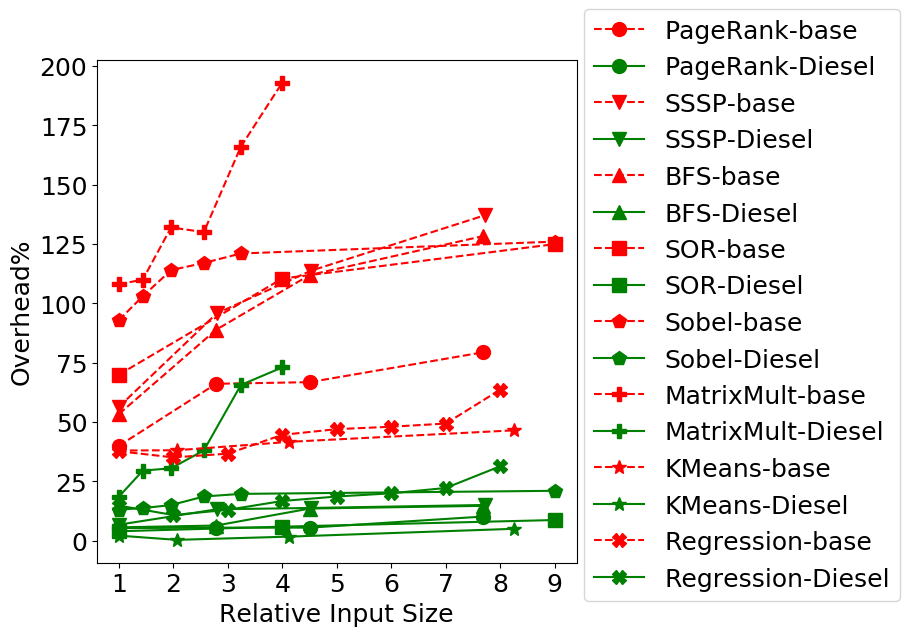
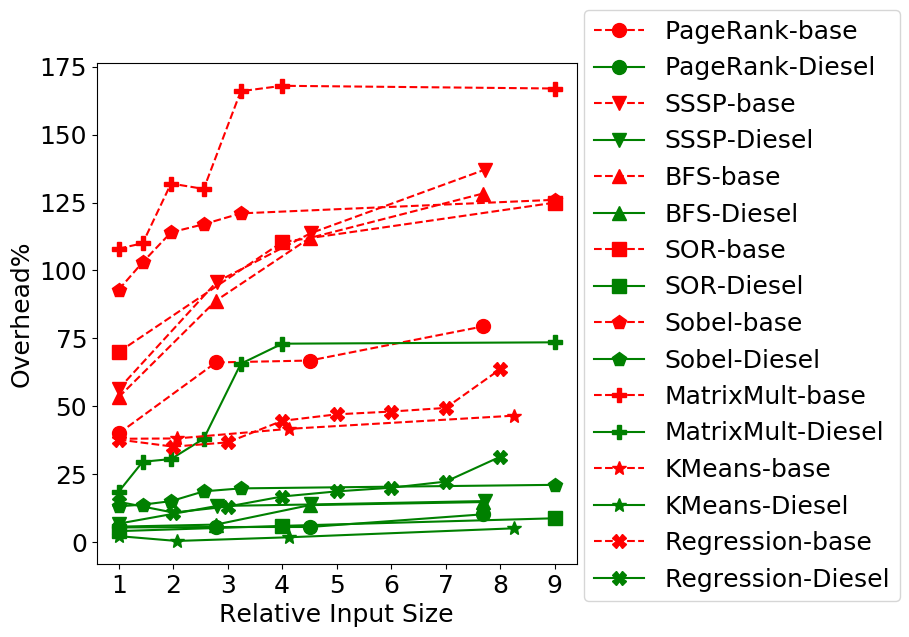
weird stuff

diff --git a/diesel/src/plot-all-times.py b/diesel/src/plot-all-times.py
@@ -22,7 +22,7 @@ data = {
         'Gaussian': None,
         'SOR': [(10000, 69.92116158573907, 3.9544192221090695), (40000, 110.42792950580116, 5.883356799603509), (90000, 124.95085391220152, 8.683904918742101)],#, (160000, 128.71759019120674, 8.03079398214932)],
         'Sobel': [(10000,92.9,13.1),(14400,103.,13.7),(19600,114.,15.0),(25600,117.,18.6),(32400,121.,19.7),(90000,126.,21.0)],
-        'MatrixMult': [(10000,108.,18.5),(14400,110.,29.5),(19600,132.,30.5),(25600,130.,38.0),(32400,166.,65.6),(40000,193.,73.0)],
+        'MatrixMult': [(10000,108.,18.5),(14400,110.,29.5),(19600,132.,30.5),(25600,130.,38.0),(32400,166.,65.6),(40000,168.,73.0),(90000,167.,73.5)],
         'KMeans': [(248, 37.97132382950256, 2.1114444212934282), (512, 38.08782047671841, 0.3284102709640509), (1024, 41.634931039260096, 1.6938769212795561), (2048, 46.490315535838185, 4.990946215861019)],
         'Regression': [(500, 37.677171760711595, 14.765906836545136), (1000, 35.07539131142273, 10.79295400994414), (1500, 36.644736922643325, 13.001743127020996), (2000, 44.577089225723384, 16.70492627710252), (2500, 46.97774337946356, 18.59035151775253), (3000, 48.001511642987026, 19.94895202234672), (3500, 49.336999492105434, 22.190399334523093), (4000, 63.59011048405577, 31.34188253822615)],
        }

diff --git a/diesel/src/mm-dist/plot_sensitivity.py b/diesel/src/mm-dist/plot_sensitivity.py
@@ -6,7 +6,7 @@ import numpy as np
 
 benchmarkName = 'MatrixMult'
 
-rawData = [(100,108.,18.5),(120,110.,29.5),(140,132.,30.5),(160,130.,38.0),(180,166.,65.6),(200,193.,73.0)]
+rawData = [(100,108.,18.5),(120,110.,29.5),(140,132.,30.5),(160,130.,38.0),(180,166.,65.6),(200,168.,73.0),(300,167.,73.5)]
 
 names = ['Baseline', 'Diesel']
 linestyles = ['--', ':']
